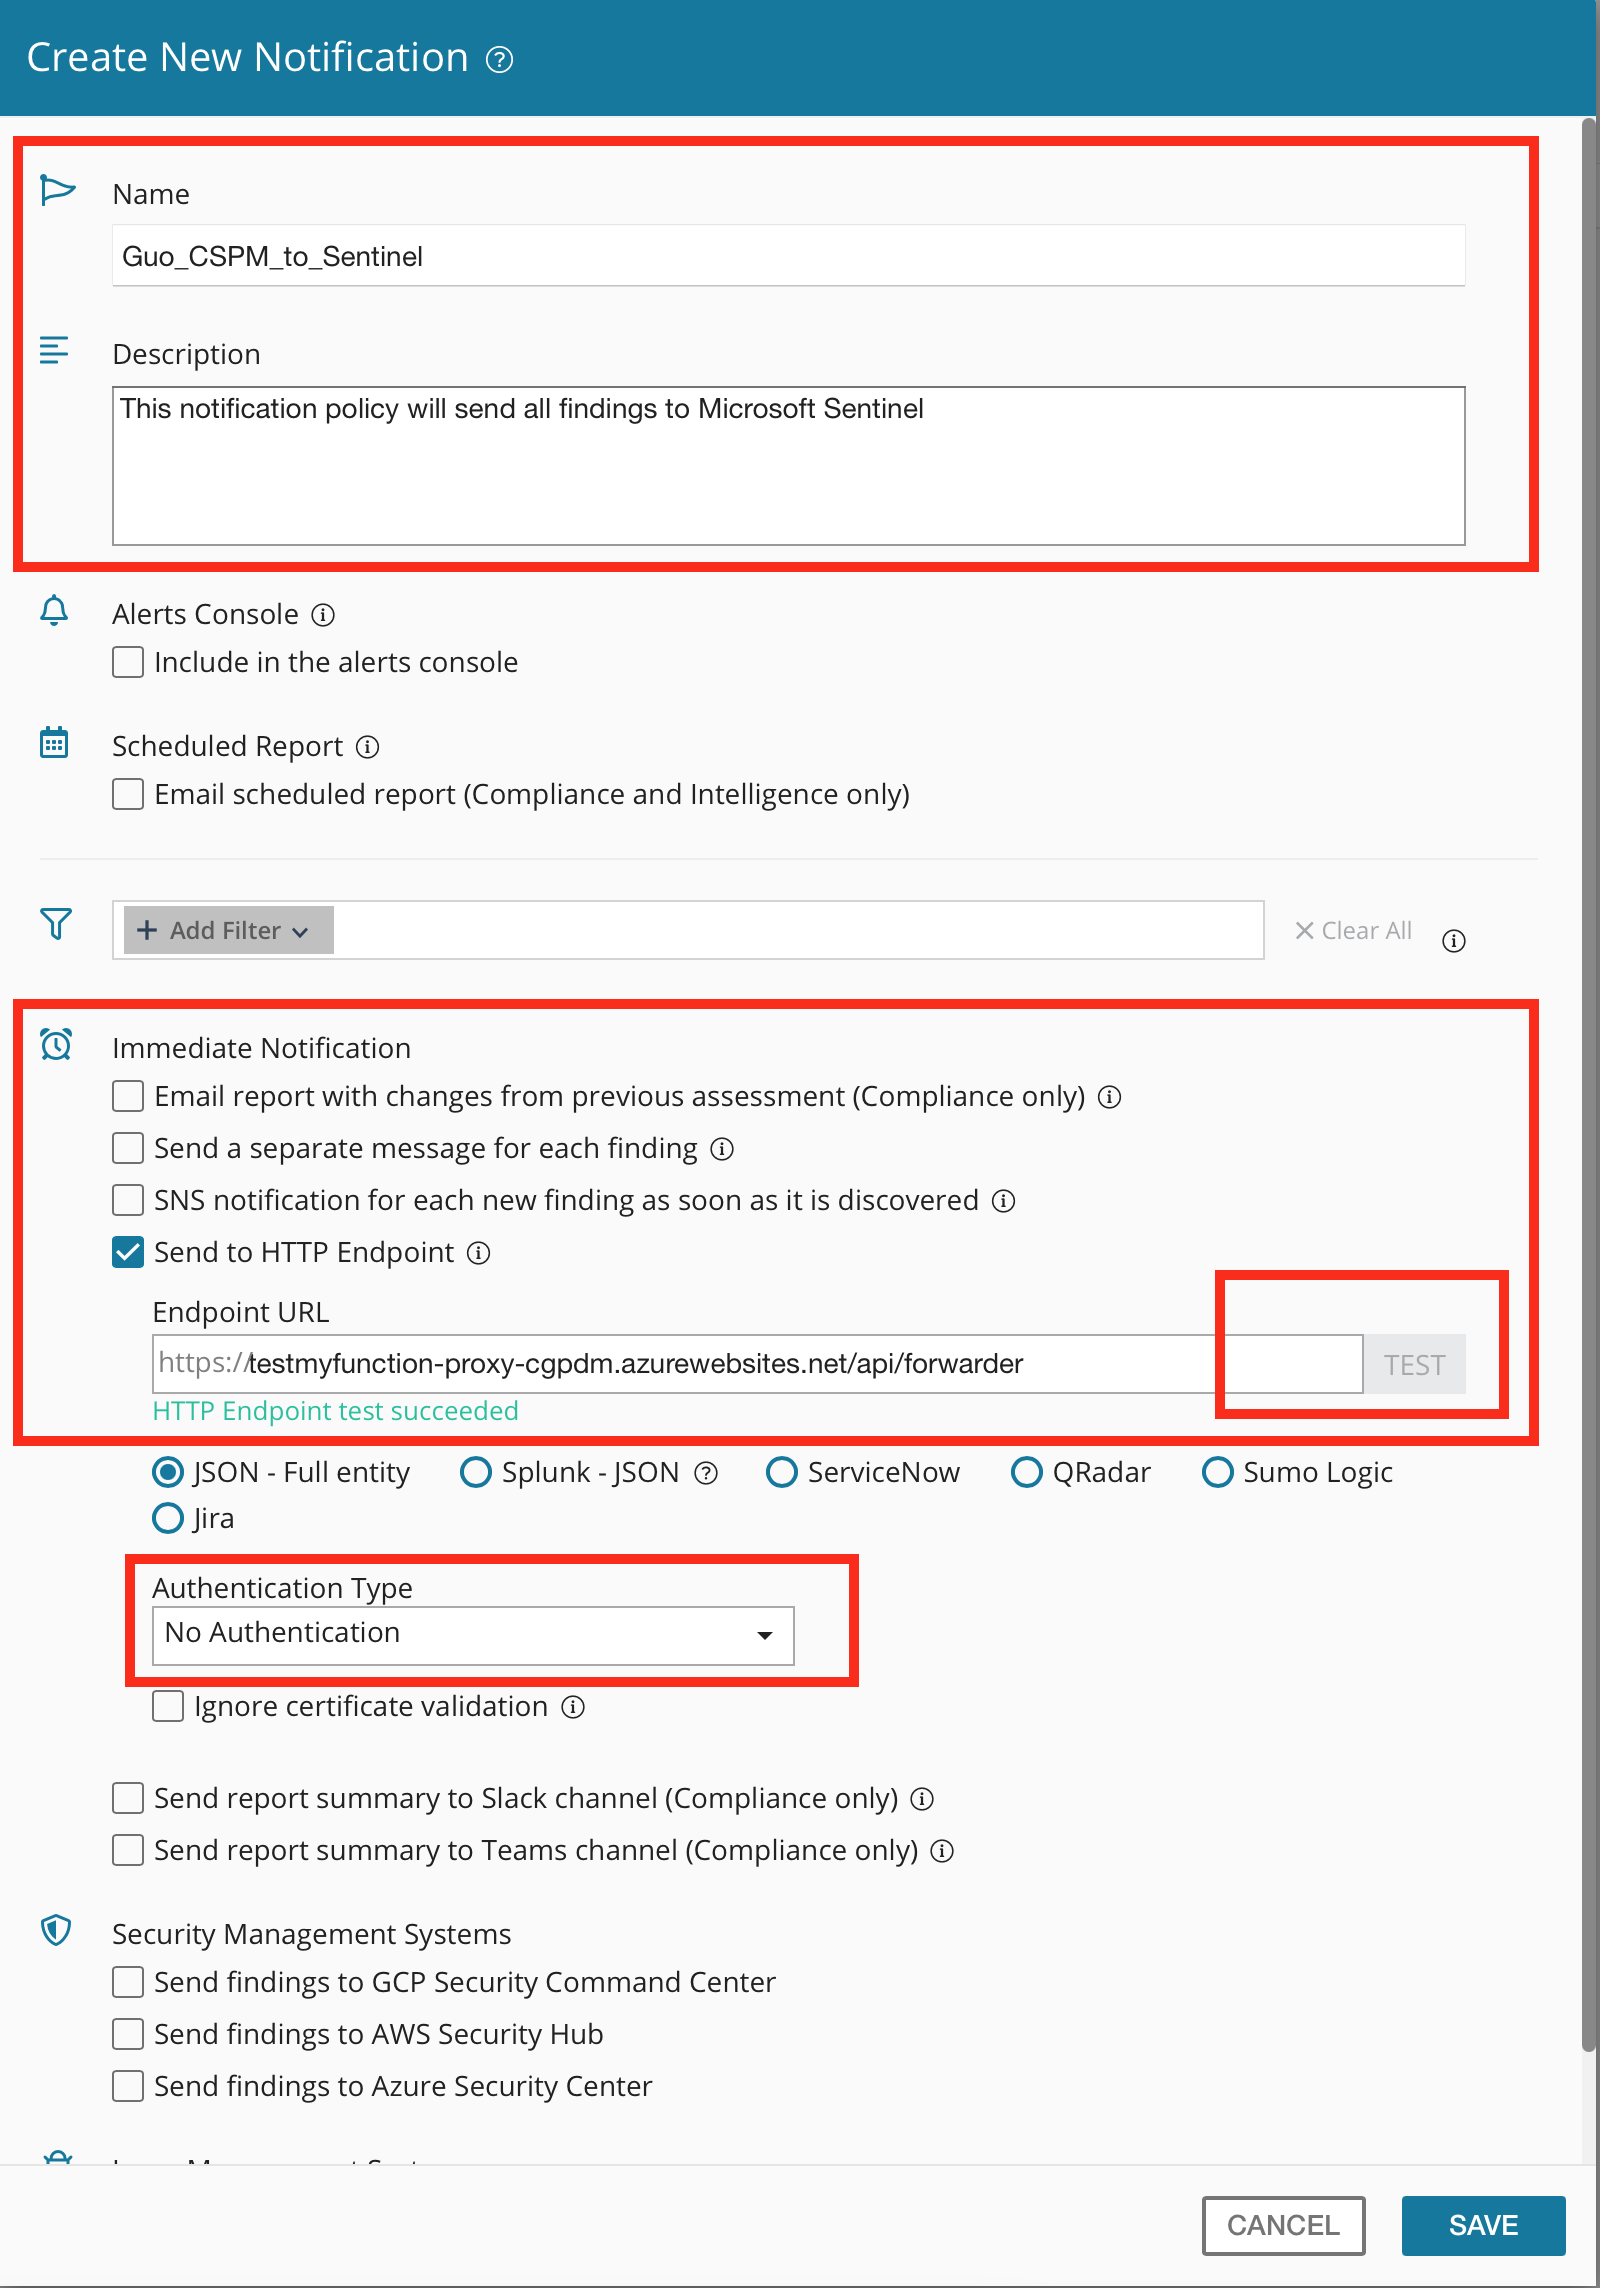
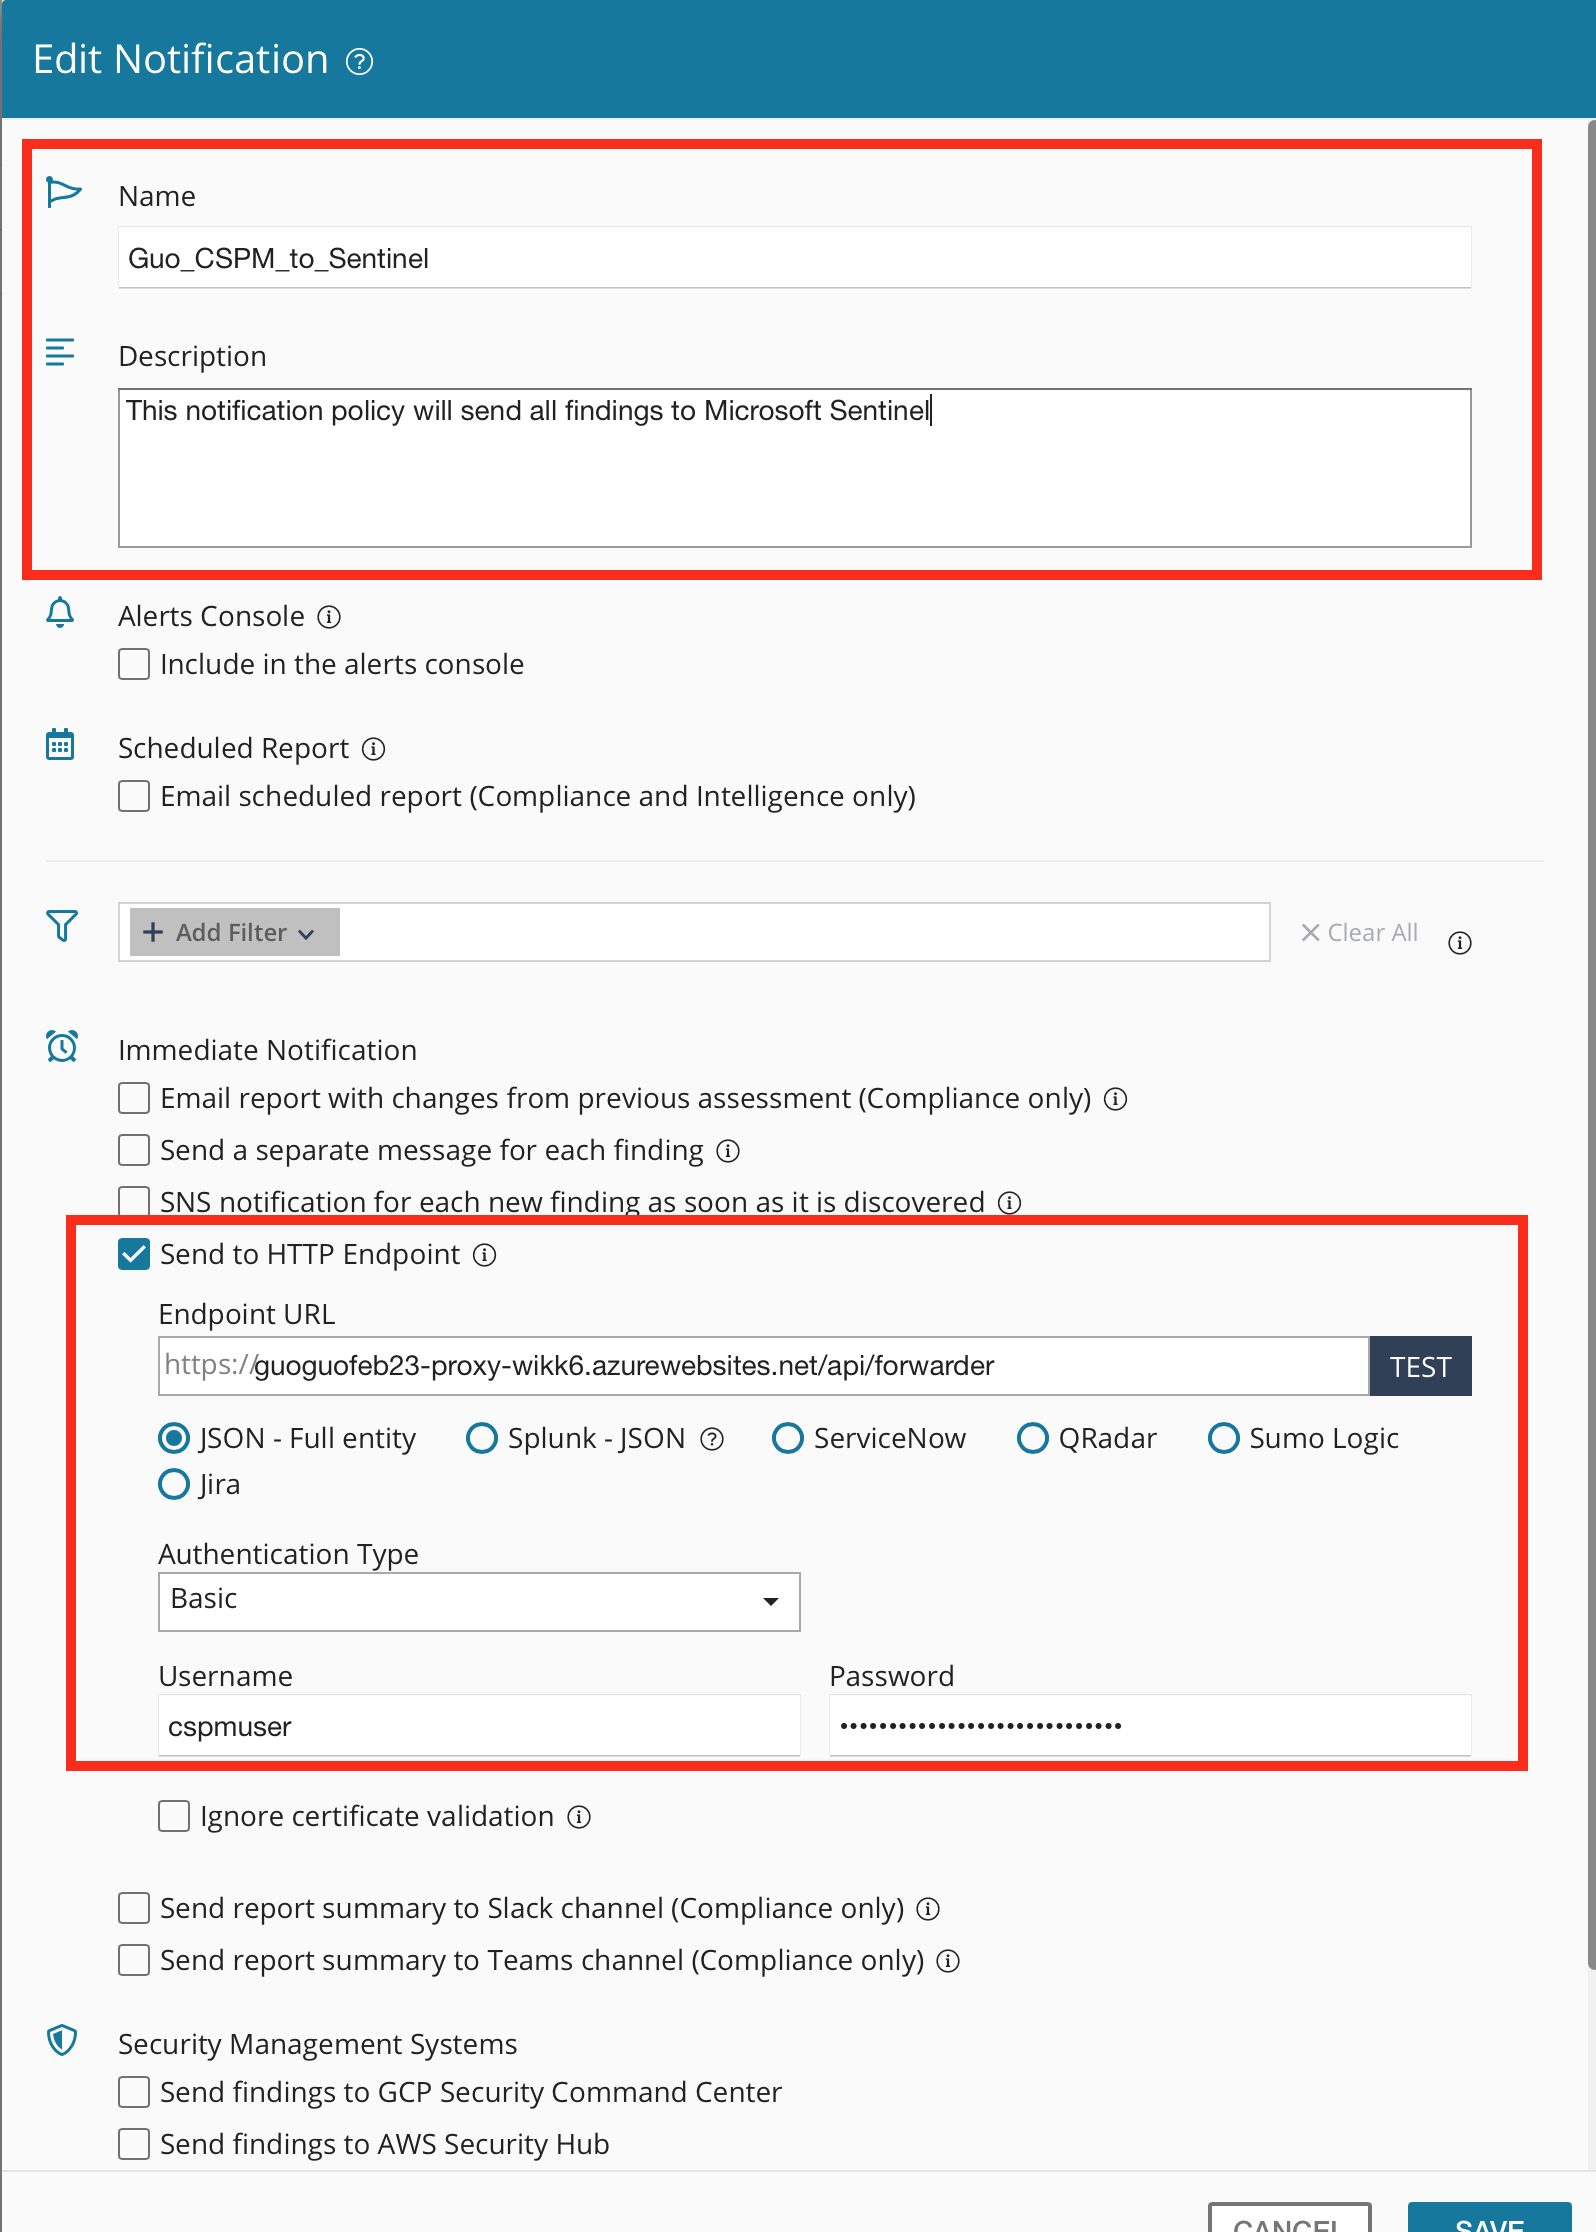
update

Changed region(s): [[0.0, 0.0, 1.0, 1.0], [0.0, 0.9892, 0.0307, 1.0]]

diff --git a/forwarder/__init__.py b/forwarder/__init__.py
@@ -1,5 +1,3 @@
-import logging
-from re import A
 import requests
 import azure.functions as func
 import os
@@ -18,13 +16,9 @@ shared_key = os.environ['shared_key']
 # The log type is the name of the event that is being submitted
 log_type = os.environ['log_type']
 
-# CSPM notiifcation Username
-cspm_usr = os.environ['cspm_usr']
-
-# CSPM notification Password
+# CSPM notification Auth
 cspm_pwd = os.environ['cspm_pwd']
-
-# Enc
+cspm_usr = os.environ['cspm_usr']
 usr_pw = cspm_usr + ":" + cspm_pwd
 enc_usr_pw = "Basic " + base64.b64encode(usr_pw.encode("utf-8")).decode('ascii')
 
